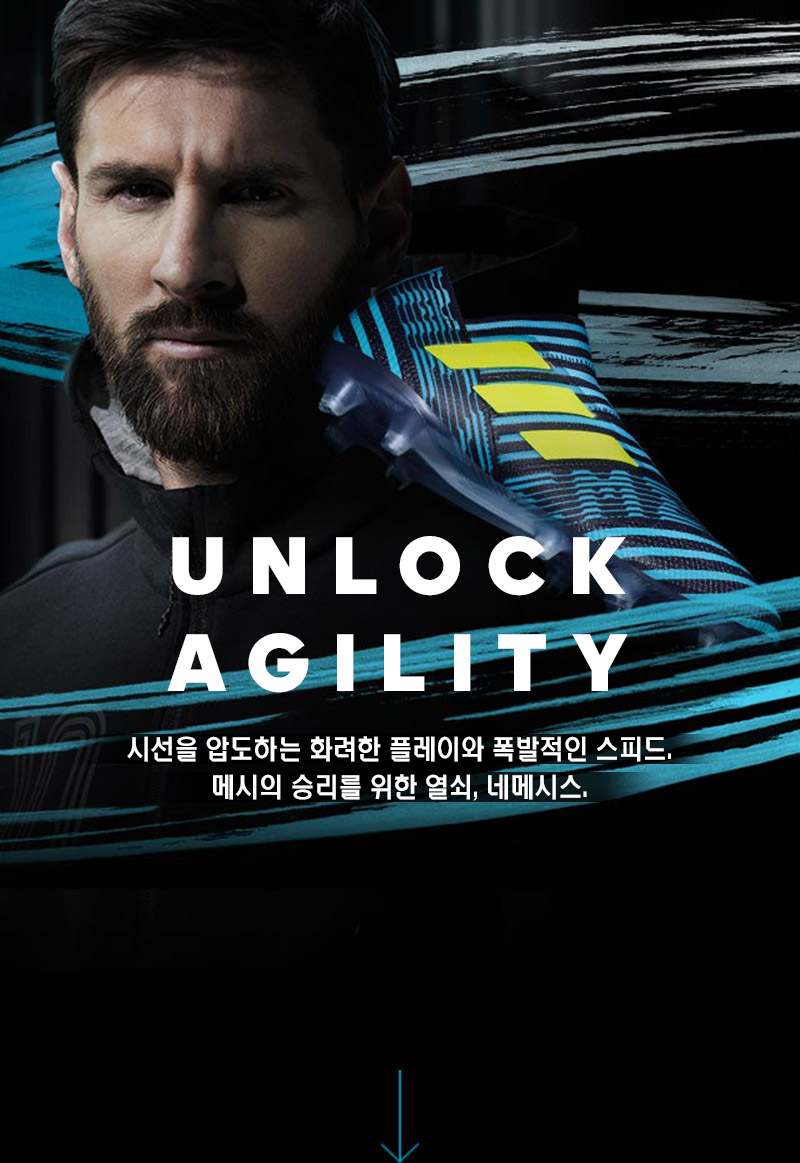
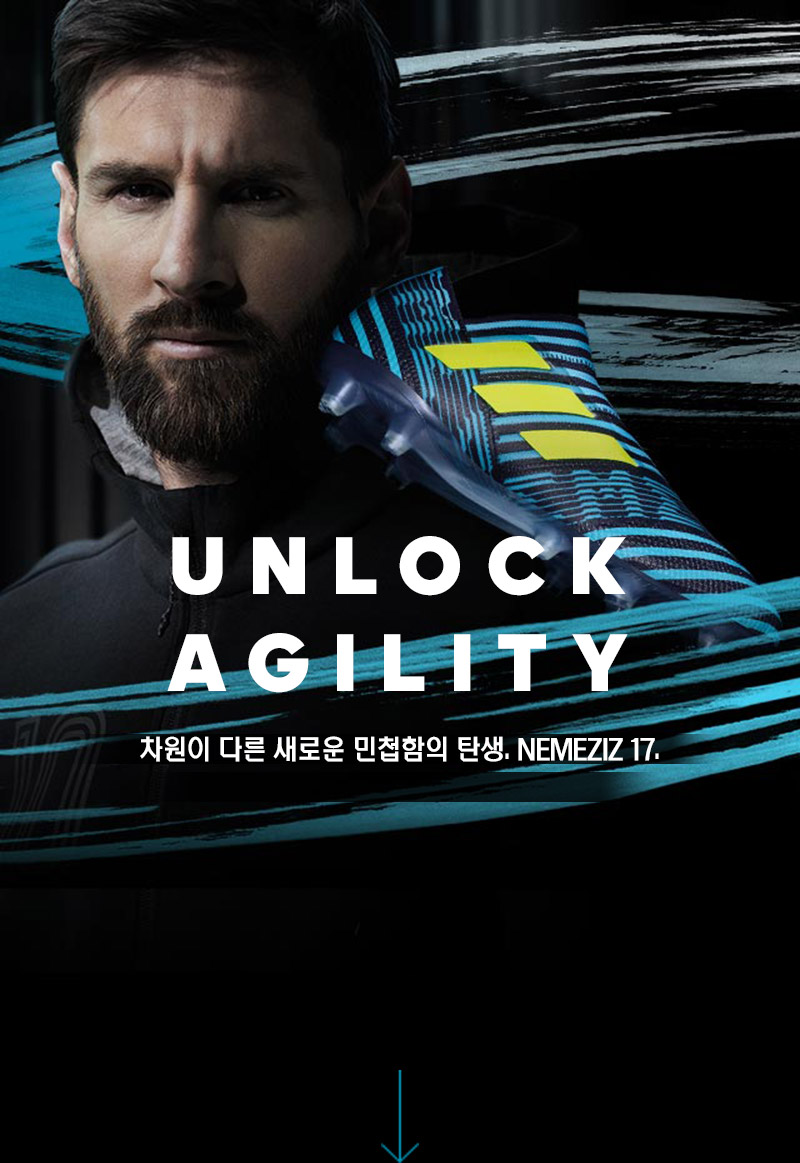
이미지 수정

Changed region(s): [[0.1562, 0.6191, 0.8438, 0.712]]

diff --git a/app/html/adidas/event/football/oceanstorm.html b/app/html/adidas/event/football/oceanstorm.html
@@ -973,7 +973,7 @@
 
 				<div class="visual">
                     <div class="bg">
-						<img src="http://imagem.adidas.co.kr/images/adidas/event/football/20170731/visual.jpg" alt="">
+						<img src="http://imagem.adidas.co.kr/images/adidas/event/football/20170731/visual.jpg?v=2" alt="">
 					</div>
 
                     <div class="button_area">
